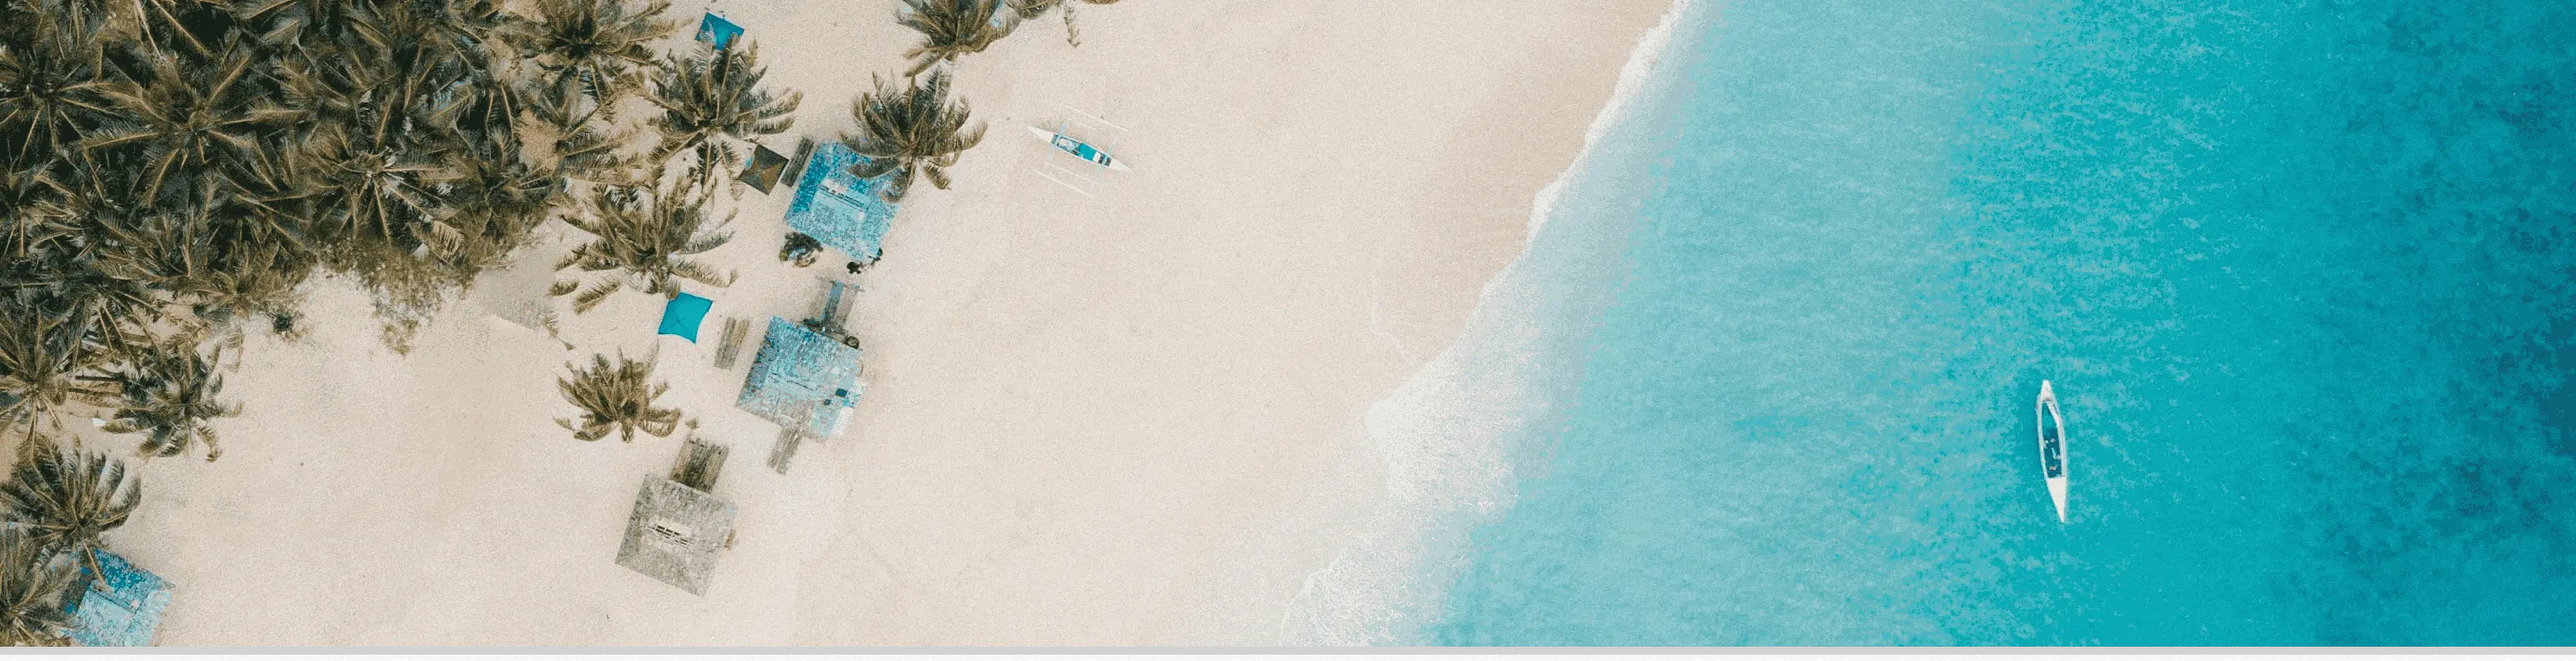
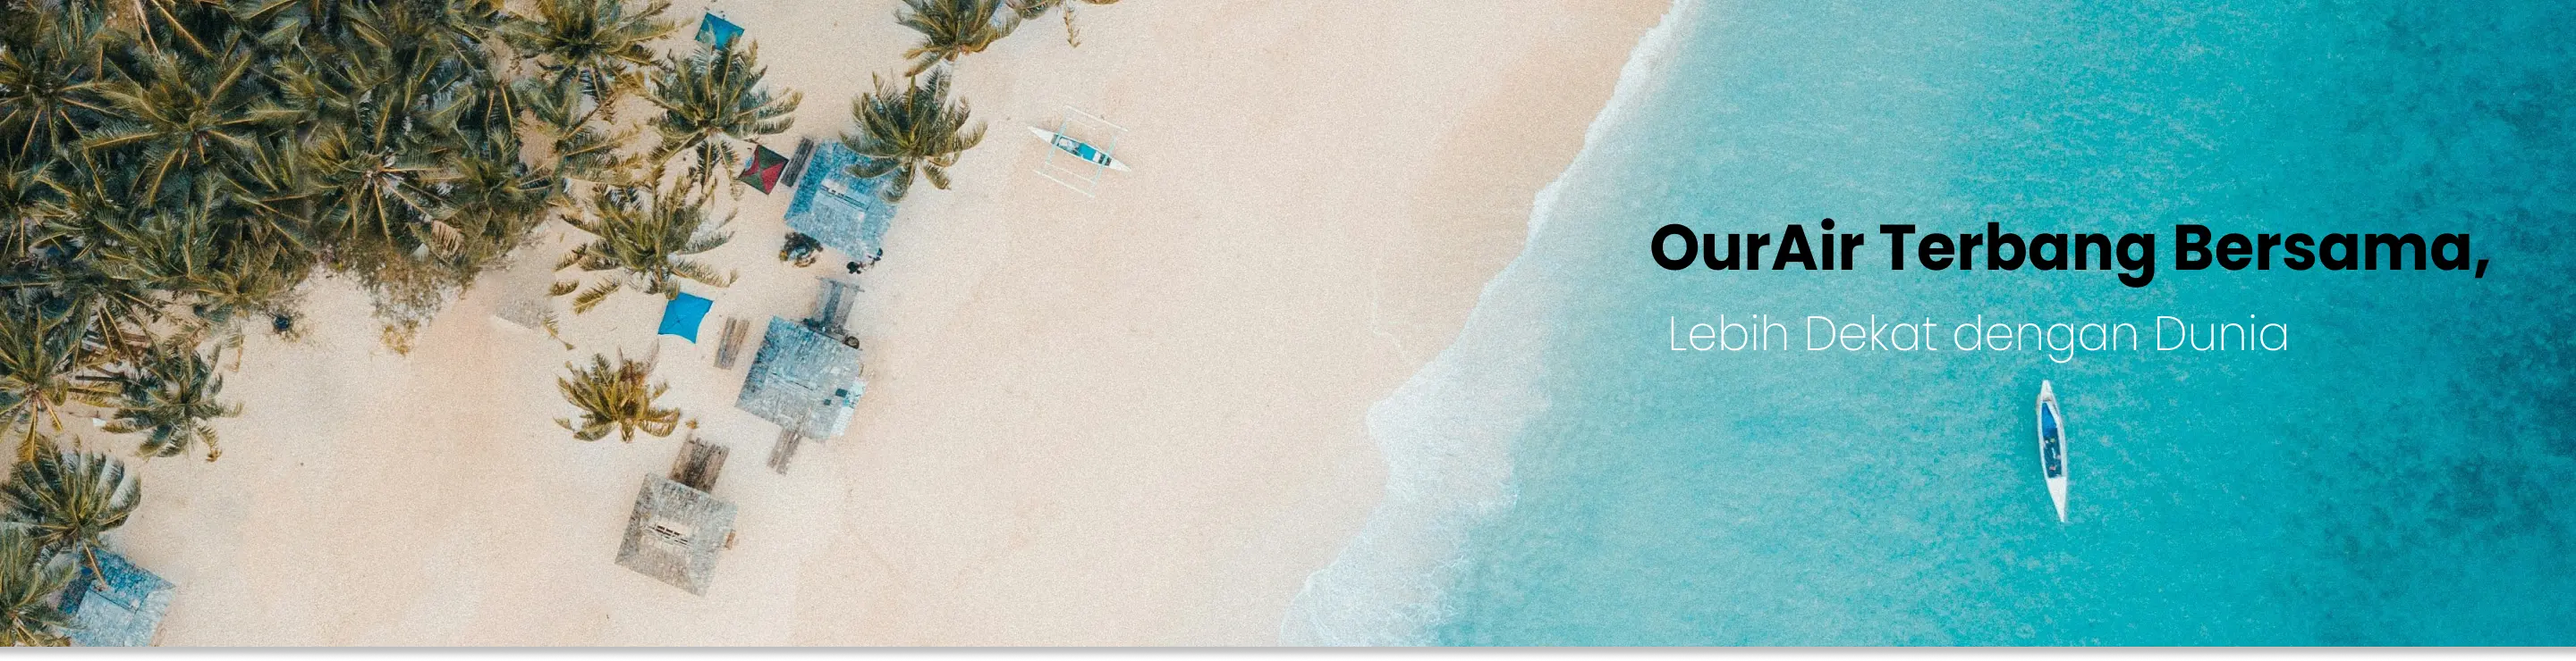
commit: update beranda dan jadiin responsive

diff --git a/src/components/Beranda/FavoriteDestination.jsx b/src/components/Beranda/FavoriteDestination.jsx
@@ -1,52 +1,69 @@
-import { faSearch } from "@fortawesome/free-solid-svg-icons";
-import { FontAwesomeIcon } from "@fortawesome/react-fontawesome";
+import { faSearch } from '@fortawesome/free-solid-svg-icons'
+import { FontAwesomeIcon } from '@fortawesome/react-fontawesome'
 
-export default function DestinasiFavorit (){
-    return (  
-        <div className="mt-64 max-w-5xl mx-auto px-4">
-    <h2 className="font-bold ">Destinasi Favorit</h2>
-    <button className="text-sm text-white max-w-32 w-full h-12 my-4 rounded-xl bg-secondary">
-      <FontAwesomeIcon icon={faSearch} className="mr-2" />
-      Semua
-    </button>
-    {/* <div className="flex flex-wrap justify-around gap-y-4"> */}
-    <div className="grid grid-cols-3 md:grid-cols-4 gap-x-4 px-4">
-      <div>
-        <img src="https://ik.imagekit.io/5zwoz8nkr/ourair/User/jakarta.webp?updateat=1717051701593" alt="Jakarta" className="w-full xl:max-w-[232.5px] mb-2 h-auto object-cover rounded-md" />
-        <h2 className="font-[600]">Jakarta - Manila</h2>
-        <b className="text-xs text-secondary">AirAsia</b>
-        <p>20 - 30 Maret 2023</p>
-        <p>
-          Mulai dari <b className="text-red-500">IDR 950.00</b>
-        </p>
-      </div>
-      <div>
-        <img src="https://ik.imagekit.io/5zwoz8nkr/ourair/User/jakarta.webp?updateat=1717051701593" alt="Jakarta" className="w-full xl:max-w-[232.5px] mb-2 h-auto object-cover rounded-md" />
-        <h2 className="font-[600]">Jakarta - Manila</h2>
-        <b className="text-xs text-secondary">AirAsia</b>
-        <p>20 - 30 Maret 2023</p>
-        <p>
-          Mulai dari <b className="text-red-500">IDR 950.00</b>
-        </p>
-      </div>
-      <div>
-        <img src="https://ik.imagekit.io/5zwoz8nkr/ourair/User/jakarta.webp?updateat=1717051701593" alt="Jakarta" className="w-full xl:max-w-[232.5px] mb-2 h-auto object-cover rounded-md" />
-        <h2 className="font-[600]">Jakarta - Manila</h2>
-        <b className="text-xs text-secondary">AirAsia</b>
-        <p>20 - 30 Maret 2023</p>
-        <p>
-          Mulai dari <b className="text-red-500">IDR 950.00</b>
-        </p>
-      </div>
-      <div>
-        <img src="https://ik.imagekit.io/5zwoz8nkr/ourair/User/jakarta.webp?updateat=1717051701593" alt="Jakarta" className="w-full xl:max-w-[232.5px] mb-2 h-auto object-cover rounded-md" />
-        <h2 className="font-[600]">Jakarta ❯ Manila</h2>
-        <b className="text-xs text-secondary">AirAsia</b>
-        <p>20 - 30 Maret 2023</p>
-        <p>
-          Mulai dari <b className="text-red-500">IDR 950.00</b>
-        </p>
+export default function DestinasiFavorit() {
+  return (
+    <div className="mt-[630px]  sm:mt-[375px] md:mt-[355px] xl:mt-[350px]  max-w-5xl mx-auto px-4">
+      <h2 className="font-bold ">Destinasi Favorit</h2>
+      <button className="text-sm text-white max-w-32 w-full h-12 my-4 rounded-xl bg-secondary">
+        <FontAwesomeIcon icon={faSearch} className="mr-2" />
+        Semua
+      </button>
+      {/* <div className="flex flex-wrap justify-around gap-y-4"> */}
+      <div className="grid mini:grid-cols-2 sm:grid-cols-3 md:grid-cols-4 gap-x-4 px-4">
+        <div>
+          <img
+            src="https://ik.imagekit.io/5zwoz8nkr/ourair/User/jakarta.webp?updateat=1717051701593"
+            alt="Jakarta"
+            className="w-full  xl:max-w-[232.5px] mb-2 h-auto object-cover rounded-md"
+          />
+          <h2 className="font-[600]">Jakarta - Manila</h2>
+          <b className="text-xs text-secondary">AirAsia</b>
+          <p>20 - 30 Maret 2023</p>
+          <p>
+            Mulai dari <b className="text-red-500">IDR 950.00</b>
+          </p>
+        </div>
+        <div>
+          <img
+            src="https://ik.imagekit.io/5zwoz8nkr/ourair/User/jakarta.webp?updateat=1717051701593"
+            alt="Jakarta"
+            className="w-full xl:max-w-[232.5px] mb-2 h-auto object-cover rounded-md"
+          />
+          <h2 className="font-[600]">Jakarta - Manila</h2>
+          <b className="text-xs text-secondary">AirAsia</b>
+          <p>20 - 30 Maret 2023</p>
+          <p>
+            Mulai dari <b className="text-red-500">IDR 950.00</b>
+          </p>
+        </div>
+        <div>
+          <img
+            src="https://ik.imagekit.io/5zwoz8nkr/ourair/User/jakarta.webp?updateat=1717051701593"
+            alt="Jakarta"
+            className="w-full xl:max-w-[232.5px] mb-2 h-auto object-cover rounded-md"
+          />
+          <h2 className="font-[600]">Jakarta - Manila</h2>
+          <b className="text-xs text-secondary">AirAsia</b>
+          <p>20 - 30 Maret 2023</p>
+          <p>
+            Mulai dari <b className="text-red-500">IDR 950.00</b>
+          </p>
+        </div>
+        <div>
+          <img
+            src="https://ik.imagekit.io/5zwoz8nkr/ourair/User/jakarta.webp?updateat=1717051701593"
+            alt="Jakarta"
+            className="w-full xl:max-w-[232.5px] mb-2 h-auto object-cover rounded-md"
+          />
+          <h2 className="font-[600]">Jakarta ❯ Manila</h2>
+          <b className="text-xs text-secondary">AirAsia</b>
+          <p>20 - 30 Maret 2023</p>
+          <p>
+            Mulai dari <b className="text-red-500">IDR 950.00</b>
+          </p>
+        </div>
       </div>
     </div>
-  </div>)
+  )
 }

diff --git a/src/components/Beranda/Passenger.jsx b/src/components/Beranda/Passenger.jsx
@@ -44,7 +44,7 @@ export const Passengers = () => {
   }
 
   return (
-    <div className="flex gap-x-8 w-full ">
+    <div className="flex w-full  flex-grow ">
       <ReactModal
         isOpen={isModalOpenPassenger}
         onRequestClose={closeModalPassenger}
@@ -152,12 +152,12 @@ export const Passengers = () => {
         </div>
       </ReactModal>
 
-      <div className="ms-2 text-gray-primary hidden sm:flex w-16 mr-2 gap-x-4 items-center">
-        <img src="assets/images/seat.png" alt="Passenger" className="h-6 w-4 select-none none" />
+      <div className="ms-1 text-gray-primary hidden sm:flex min-w-16 mr-6 gap-x-4 items-center">
+        <img src="assets/images/seat.png" alt="Passenger" className="h-6 w-auto select-none none" />
         <span className="font-[600] text-sm">Seat</span>
       </div>
 
-      <div className="w-full ">
+      <div className="w-full max-w-[424.23px]">
         <div className="w-full">
           <h4 className="text-sm">Penumpang</h4>
           <button

diff --git a/src/components/Beranda/SeatClass.jsx b/src/components/Beranda/SeatClass.jsx
@@ -35,7 +35,7 @@ export const SeatClass = () => {
   ]
 
   return (
-    <div className="flex gap-x-4 w-full">
+    <div className="flex w-full max-w-[424.23px]">
       <ReactModal
         isOpen={isModalOpenSeatClass}
         onRequestClose={closeModalSeatClass}
@@ -93,12 +93,12 @@ export const SeatClass = () => {
 
       <div className="text-gray-400 flex gap-x-4 items-center"></div>
 
-      <div className="flex gap-x-2 w-full">
+      <div className="flex gap-x-2 w-full ">
         <div className="w-full">
           <h4 className="text-sm">Kelas</h4>{' '}
           <button
             onClick={openModalSeatClass}
-            className="text-left my-2 border p-3  font-[600] w-full max-w-[300px]"
+            className="text-left my-2 border p-3  font-[600] w-full"
           >
             {selectedSeatClass ? `${selectedSeatClass.name}` : 'Pilih Seat Class'}
           </button>

diff --git a/src/components/Beranda/Header.jsx b/src/components/Beranda/Header.jsx
@@ -22,7 +22,7 @@ export default function Header() {
         <img
           src="/assets/images/header_background.webp"
           alt="Pantai"
-          className="w-full h-86 absolute"
+          className="w-full h-[362px] xl:h-auto object-cover absolute"
         />
         <div className="absolute top-72 max-w-5xl w-11/12 h-fit px-4 pt-4 pb-20 md:p-6 xl:p-8 rounded-xl border bg-white left-1/2 -translate-x-1/2">
           <div>
@@ -35,7 +35,7 @@ export default function Header() {
           <hr className="mb-4" />
           <div className="grid grid-cols-1 gap-y-7">
             <DepartureReturn />
-            <div className="flex w-full gap-x-1">
+            <div className="flex gap-x-2 w-full justify-between md:ml-1">
               <Passengers />
               <SeatClass />
             </div>

diff --git a/src/components/Beranda/ButtonSearch.jsx b/src/components/Beranda/ButtonSearch.jsx
@@ -1,6 +1,9 @@
 export const ButtonSearch = ({ onClick }) => {
   return (
-    <button onClick={onClick} className="bg-secondary font-bold text-white hover:bg-primary transition-colors duration-500 w-full h-12 rounded-b-xl absolute left-0 -bottom-3">
+    <button
+      onClick={onClick}
+      className="bg-secondary font-bold text-white hover:bg-primary transition-colors duration-500 w-full h-12 rounded-b-xl absolute left-0 -bottom-8"
+    >
       Cari Penerbangan
     </button>
   )
